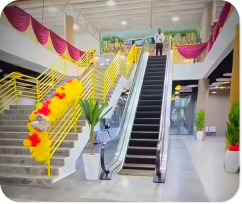
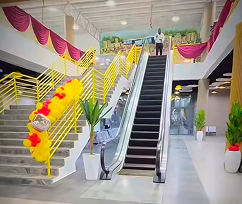
worked on landing

diff --git a/components/LandingPage/LandingPageSectionII.jsx b/components/LandingPage/LandingPageSectionII.jsx
@@ -1,5 +1,6 @@
 import React from "react";
 import { FaStar } from "react-icons/fa6";
+import ImpactSection from "./ImpactSection";
 
 export default function LandingPageSectionII() {
   const myAwesome = [
@@ -62,73 +63,33 @@ export default function LandingPageSectionII() {
   return (
     <section>
       <div className="flex justify-center font-bold text-3xl">
-        <h1 className="py-5">Explore Top Routes</h1>
+        <h1 className="py-3">Explore Top Routes</h1>
       </div>
 
-      <div className="grid lg:grid-cols-5 grid-cols-2 grid:gap-2 md:grid-cols-3 w-full justify-center gap-5 lg:gap-2.5 md:gap-2.5 mt-5 lg:px-20 px-5 md:px-10">
+      <div className="grid lg:grid-cols-5 grid-cols-1 grid:gap-2 md:grid-cols-3 w-full justify-center gap-5 lg:gap-2.5 md:gap-2.5 mt-5 lg:px-20 px-5 md:px-10">
         {myAwesome.map((product) => (
-          <div className=" shadow-2xl rounded-xl mx-5 flex flex-col gap-1 w-[90%]">
-            <img src={product.image} alt="" />
-            <h2 className="font-bold px-2.5">
-              {product.origin} - {product.destination}
-            </h2>
-            <div className="flex justify-between px-2.5">
-              <p>{product.bus}</p>
-              <p>{product.time}</p>
+          <div className=" shadow-2xl pb-5 rounded-xl mx-5 flex flex-col gap-1 w-[90%]">
+            <img src={product.image} alt="" className="rounded-t-xl" />
+            <div className="px-2">
+              <h2 className="font-bold px-2.5">
+                {product.origin} - {product.destination}
+              </h2>
+              <div className="flex justify-between px-2.5">
+                <p>{product.bus}</p>
+                <p>{product.time}</p>
+              </div>
+              <div className="px-2.5 flex justify-between">
+                <p>{product.buss}</p>
+                <p>{product.duration}</p>
+              </div>
+              <p className="px-2.5 font-bold text-[#ff6200]">{product.price}</p>
             </div>
-            <div className="px-2.5 flex justify-between">
-              <p>{product.buss}</p>
-              <p>{product.duration}</p>
-            </div>
-            <p className="px-2.5 font-bold text-[#ff6200]">{product.price}</p>
           </div>
         ))}
       </div>
+      
 
-      <div className="flex flex-col lg:flex-row md:flex-row mt-15 justify-between lg:px-20 px-5 md:px-10 ">
-        <div className="flex justify-center">
-          <img src="./Bus.png" alt="" />
-        </div>
-
-        <div className="bg-[#ff6200] relative py-5 text-white lg:w-[60%] md:w-[60%] w-full h-full mt-15 rounded-2xl">
-          <h2 className="font-bold text-2xl px-5 pt-2.5">Our Impact</h2>
-
-          <div className="flex justify-between px-5 items-center pt-5">
-            <div className="border-r lg:pr-7.5 md:pr-5 pr-5">
-              <p className="font-bold text-xl">50+</p>
-              <p>Electric Buses</p>
-            </div>
-
-            <div className="border-r pr-7.5 md:pl-2 md:pr-5">
-              <p className="font-bold text-xl">100k+</p>
-              <p>Passengers</p>
-            </div>
-            <div className="border-r pr-7.5 md:pl-1 md:pr-5">
-              <p className="font-bold text-xl">20+</p>
-              <p>Routes</p>
-            </div>
-            <div className="pl-2.5">
-              <p className="font-bold text-xl">99%</p>
-              <p>Customers Satisfaction</p>
-            </div>
-          </div>
-
-          <div className="flex pt-5 pb-15 mr-5">
-            <div className="bg-[#ff6200] absolute border-2 border-orange-500 lg:-left-25 -left-5  md:-left-10 z-10 p-2.5 rounded-2xl  w-[60%] flex justify-center ">
-              <h2 className="font-bold text-xl text-[#ffe0cc]">
-                Powerful Features in your Pocket
-              </h2>
-            </div>
-            <div className="bg-[#ffe0cc] p-1.5 rounded-2xl absolute -right-5 lg:right-5 md:-right-1  w-[50%] flex justify-center  mr-0.5">
-              <p className="font-bold text-[16px] italic text-black">
-                Everything you need for a smarter travel experience
-              </p>
-            </div>
-          </div>
-        </div>
-      </div>
-
-      <div className="mt-5 lg:px-20 px-5 md:px-10">
+      {/* <div className="mt-5 lg:px-20 px-5 md:px-10">
         <h1 className="flex justify-center font-bold text-3xl pb-10">
           Trusted by Thousands
         </h1>
@@ -190,27 +151,28 @@ export default function LandingPageSectionII() {
         </div>
       </div>
 
-      
       <div className=" bg-[#ff6200] py-5 px-10 lg:mx-20 mx-5 md:mx-10  my-10 text-white rounded-2xl flex flex-col gap-2.5">
         <h1 className="font-bold text-2xl">Ready to travel smarter?</h1>
         <p>Join thousands of smart commuters using ABIA GREEN SHUTTLE</p>
 
         <div className="flex gap-5">
-            <div className="bg-black flex h-fit p-2.5 gap-2.5 rounded-2xl justify-center items-center">
-                <img src="./selfhst_google-play.png" alt="" className="w-7.5 h-5" />
-            <p className="text-white text-[12px]">Get it on <br />
-                <span className="font-bold">GOOGLE PLAY</span>
+          <div className="bg-black flex h-fit p-2.5 gap-2.5 rounded-2xl justify-center items-center">
+            <img src="./selfhst_google-play.png" alt="" className="w-7.5 h-5" />
+            <p className="text-white text-[12px]">
+              Get it on <br />
+              <span className="font-bold">GOOGLE PLAY</span>
             </p>
-            </div>
-            
-            <div className="bg-black flex h-fit p-2.5 gap-2.5 rounded-2xl justify-center items-center">
-                <img src="./Vector.png" alt="" className="w-7.5 h-5" />
-                <p className="text-white text-[12px]">Download on the <br />
-                    <span className="font-bold">App Store</span>
-                </p>
-            </div>
+          </div>
+
+          <div className="bg-black flex h-fit p-2.5 gap-2.5 rounded-2xl justify-center items-center">
+            <img src="./Vector.png" alt="" className="w-7.5 h-5" />
+            <p className="text-white text-[12px]">
+              Download on the <br />
+              <span className="font-bold">App Store</span>
+            </p>
+          </div>
         </div>
-      </div>
+      </div> */}
     </section>
   );
 }

diff --git a/components/LandingPage/ImpactSection.jsx b/components/LandingPage/ImpactSection.jsx
@@ -1,0 +1,88 @@
+import React from "react";
+
+export default function ImpactSection() {
+  return (
+    <section className="w-full md:px-20 mx-auto px-4 sm:px-6 py-10 lg:py-16">
+      <div className="flex flex-col md:flex-row items-center justify-between gap-8 lg:gap-12">
+        
+        {/* 1. BUS IMAGE CONTAINER */}
+        <div className="w-full md:w-[30%] flex justify-center items-center">
+          <img
+            src="./Bus.png"
+            alt="Abia State Electric Bus"
+            className="w-full lg:max-w-lg object-contain h-auto drop-shadow-md"
+          />
+        </div>
+
+        {/* 2. IMPACT STATS CARD */}
+        <div className="bg-[#ff6200] relative p-6 sm:p-8 text-white w-full md:w-[70%] rounded-3xl shadow-xl flex flex-col justify-between space-y-8">
+          
+          {/* Section Header */}
+          <div>
+            <h2 className="font-bold text-2xl sm:text-3xl tracking-tight">
+              Our Impact
+            </h2>
+          </div>
+
+          {/* Impact Metrics Grid */}
+          <div className="grid grid-cols-2 md:grid-cols-4 gap-4 sm:gap-6 border-y border-white/20 py-6">
+            
+            {/* Metric 1 */}
+            <div className="border-r border-white/20 pr-3 md:pr-4">
+              <p className="font-bold text-xl sm:text-2xl text-white">50+</p>
+              <p className="text-xs sm:text-sm text-orange-100 font-medium">
+                Electric Buses
+              </p>
+            </div>
+
+            {/* Metric 2 */}
+            <div className="md:border-r border-white/20 pr-3 md:pr-4">
+              <p className="font-bold text-xl sm:text-2xl text-white">100k+</p>
+              <p className="text-xs sm:text-sm text-orange-100 font-medium">
+                Passengers
+              </p>
+            </div>
+
+            {/* Metric 3 */}
+            <div className="border-r border-white/20 pr-3 md:pr-4">
+              <p className="font-bold text-xl sm:text-2xl text-white">20+</p>
+              <p className="text-xs sm:text-sm text-orange-100 font-medium">
+                Routes
+              </p>
+            </div>
+
+            {/* Metric 4 */}
+            <div>
+              <p className="font-bold text-xl sm:text-2xl text-white">99%</p>
+              <p className="text-xs sm:text-sm text-orange-100 font-medium">
+                Customer Satisfaction
+              </p>
+            </div>
+
+          </div>
+
+          {/* Floating Callout Badges */}
+          <div className="flex flex-col md:flex-row items-center gap-3 pt-2 pb-4 relative">
+            
+            {/* Left Feature Badge */}
+            <div className="bg-[#ff6200] border-2 border-orange-300 shadow-md p-3.5 rounded-2xl w-full md:w-auto md:max-w-xs z-10 text-center md:text-left">
+              <h3 className="font-bold text-sm sm:text-base text-[#ffe0cc]">
+                Powerful Features in your Pocket
+              </h3>
+            </div>
+
+            {/* Right Sub-text Badge */}
+            <div className="bg-[#ffe0cc] p-3 rounded-2xl w-full md:w-auto text-center md:text-left md:-ml-4">
+              <p className="font-bold text-xs sm:text-sm italic text-slate-900">
+                Everything you need for a smarter travel experience
+              </p>
+            </div>
+
+          </div>
+
+        </div>
+
+      </div>
+    </section>
+  );
+}

diff --git a/components/LandingPage/landingPageFirstSection.jsx b/components/LandingPage/landingPageFirstSection.jsx
@@ -5,7 +5,7 @@ import { IoLogoGooglePlaystore, IoLogoApple } from "react-icons/io5";
 
 export default function LandingPageFirstSection() {
   return (
-    <section className="flex md:flex-row flex-col md:gap-2 gap-10 pt-4 items-center pb-20 md:px-20 px-5">
+    <section className="flex md:flex-row flex-col md:gap-2 gap-10 pt-10 items-center pb-20 lg:px-20 md:px-10 px-5">
       <section className="space-y-6 px-8 w-full md:w-[40%]">
         <div className="bg-amber-500/30 rounded-full w-full md:w-50 px-1 py-1 text-center text-sm text-amber-600 font-semibold">
           <p>Smart Travels, Better City</p>
@@ -21,13 +21,13 @@ export default function LandingPageFirstSection() {
         </p>
 
         <div className="grid grid-cols-[130px_2fr] w-4/5 gap-2">
-          <div
-            className="bg-[rgba(255,98,0,1)] text-[rgba(255,255,255,1)] flex rounded-md px-4 text-[12px] items-center gap-2 shadow-[inset_0_1px_20px_rgb(0,0,0,0.10)] w-32 h-10 font-medium
+          <button
+            className="bg-[rgba(255,98,0,1)] text-[rgba(255,255,255,1)] flex rounded-md px-4 text-[12px] items-center gap-2 shadow-[inset_0_1px_20px_rgb(0,0,0,0.10)] w-32 h-10 font-medium hover:bg-[rgba(255,98,0,1)]
           "
           >
             <p>Get The App</p>
             <CiHome className="text-lg" />
-          </div>
+          </button>
 
           <div
             className=" text-[rgba(255,98,0,1)] flex rounded-md px-2 text-[12px] items-center gap-2 border w-30 h-10 font-semibold

diff --git a/src/pages/LandingPage/LandingPage.jsx b/src/pages/LandingPage/LandingPage.jsx
@@ -2,7 +2,8 @@ import React from "react";
 import LandingPageFirstSection from "../../../components/LandingPage/landingPageFirstSection";
 import SmarterTransportation from "../../../components/LandingPage/smarterTransportation";
 import Steps from "../../../components/LandingPage/Steps";
-import LandingPageSectionII from "../../../components/LandingPageSectionII";
+import LandingPageSectionII from "../../../components/LandingPage/LandingPageSectionII";
+import ImpactSection from "../../../components/LandingPage/ImpactSection";
 
 function LandingPage() {
   return (
@@ -11,6 +12,7 @@ function LandingPage() {
       <Steps />
       <SmarterTransportation />
       <LandingPageSectionII />
+      <ImpactSection />
     </section>
   );
 }
